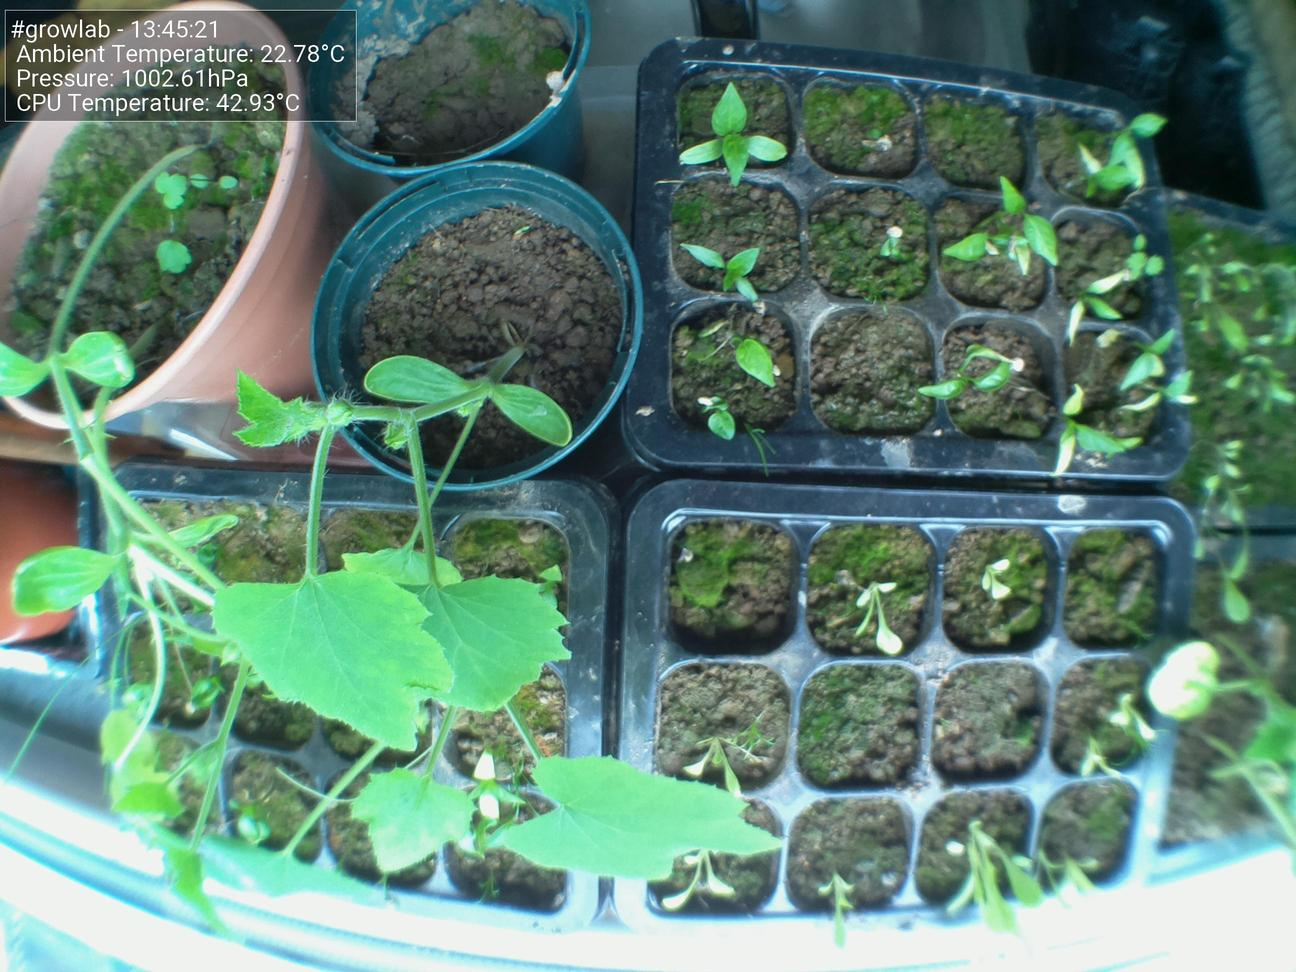
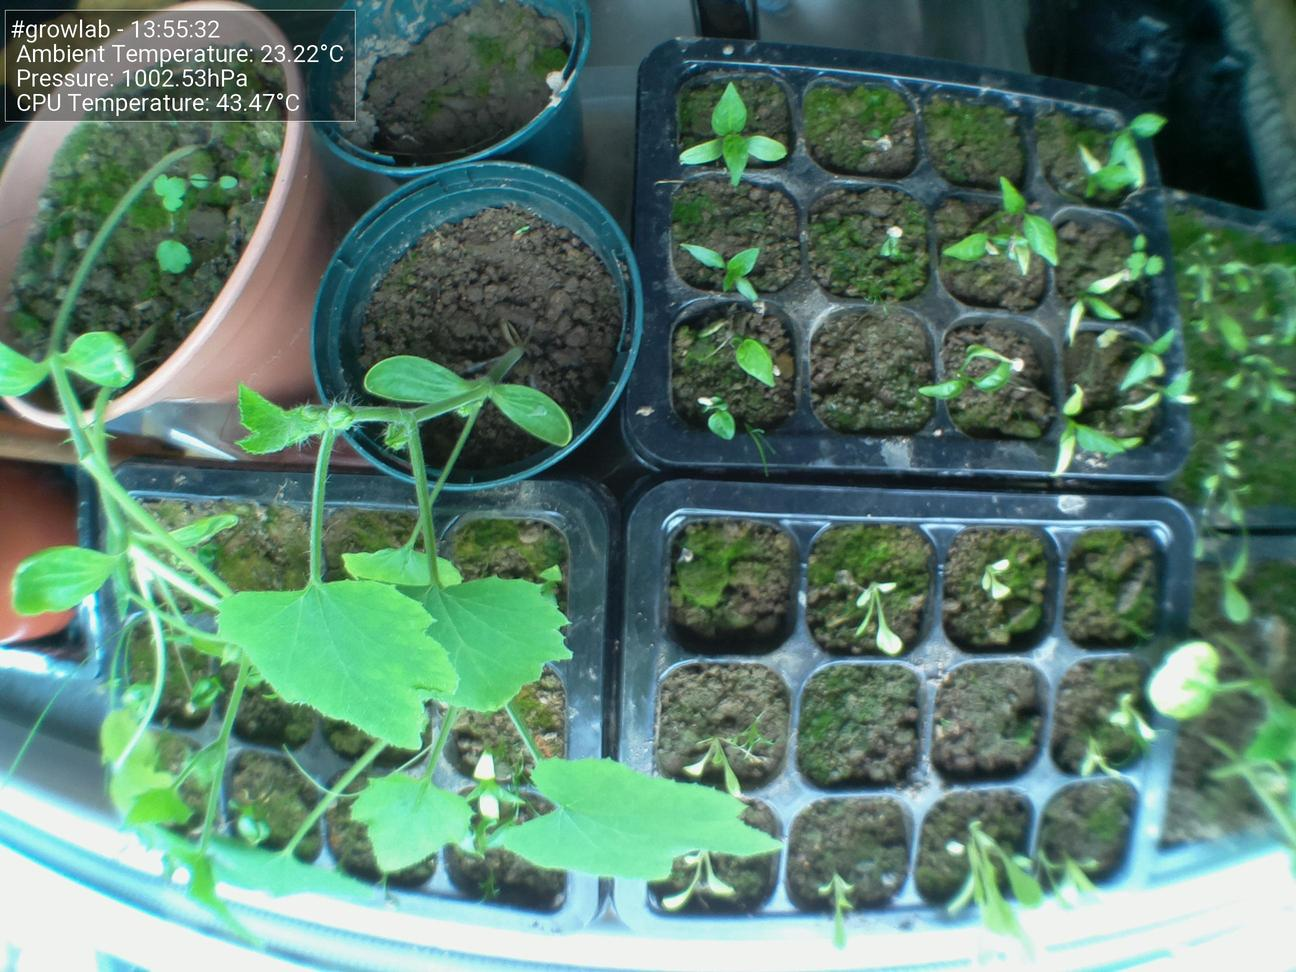
Update images at Sun 22 May 13:55:38 BST 2022

diff --git a/docs/index.html b/docs/index.html
@@ -44,15 +44,15 @@
                         <tbody>
                             <tr>
                                 <td>Time</td>
-                                <td>13:45:21</td>
+                                <td>13:55:32</td>
                             </tr>
                             <tr>
                                 <td>CPU Temp</td>
-                                <td>42.93°C</td>
+                                <td>43.47°C</td>
                             </tr>
                             <tr>
                                 <td>Ambient Temperature</td>
-                                <td>22.78°C</td>
+                                <td>23.22°C</td>
                             </tr>
                             <tr>
                                 <td>Humidity</td>
@@ -60,7 +60,7 @@
                             </tr>
                             <tr>
                                 <td>Pressure</td>
-                                <td>1002.61hPa</td>
+                                <td>1002.53hPa</td>
                             </tr>
                         </tbody>
                     </table>
@@ -68,7 +68,7 @@
 
                 <h5>Latest image</h5>
                 <div style="width: 85%;">
-                            <img class="figure-img img-fluid rounded" src="./preview.jpg?uid=1653223525.724428">
+                            <img class="figure-img img-fluid rounded" src="./preview.jpg?uid=1653224138.00774">
                 </div>
             </div>
         </div>
